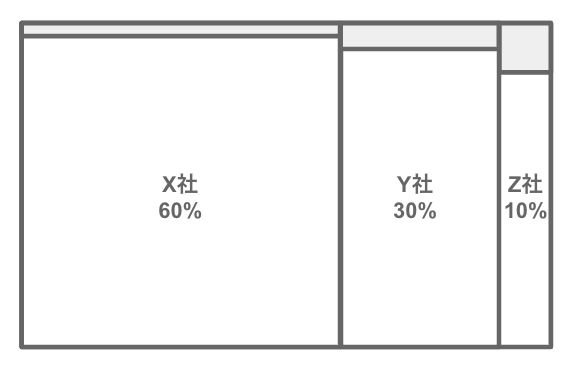
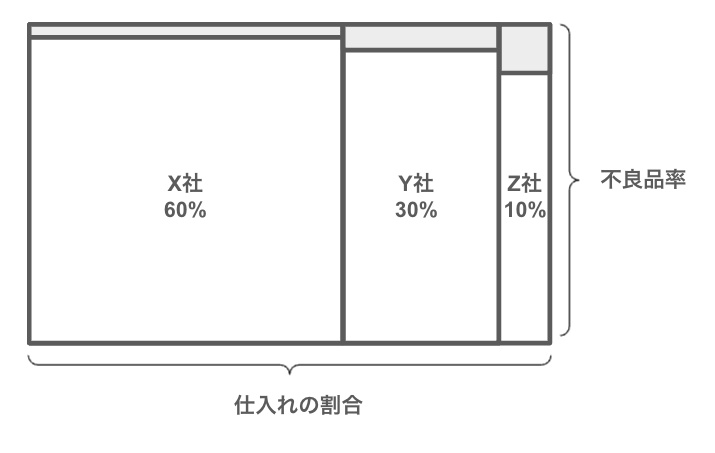
update

Changed region(s): [[0.0297, 0.03, 0.9808, 0.9591], [0.208, 0.3597, 0.3566, 0.5995]]

diff --git a/307.md b/307.md
@@ -1,8 +1,8 @@
 # 確率変数
 
-* 確率変数とは確率（確率分布）によって値の決まる変数
-* 確率変数は値の取りうる確率を`P`、確率変数の期待値を`E`、確率変数の分散を`V`という記号で表現する
-* 確率変数は離散型確率変数、連続型確率変数に分割できる
+* **確率変数**とは確率（確率分布）によって値の決まる変数
+* 確率変数は値の取りうる確率を`P`、確率変数の**期待値**を`E`、確率変数の**分散**を`V`という記号で表現する
+* 確率変数は**離散型確率変数**、**連続型確率変数**に分割できる
 
 > 変数とは何かしらの具体的な値を持ちます。確率変数とはその具体的な値と、その値の出現する確率（確率分布）を持ちます。
 
@@ -30,7 +30,7 @@ P(1) = 1/6
 
 ## 確率分布
 
-* 確率分布とは、確率変数のとりうる値とその確率の対応を表すもの
+* **確率分布**とは、確率変数のとりうる値とその確率の対応を表すもの
 * 離散型確率分布、連続型確率分布に分かれる
 * 離散型確率分布にはベルヌーイ分布、二項分布、ポアソン分布などがあり、連続型確率分布には正規分布やt分布などがある
 
@@ -38,11 +38,13 @@ P(1) = 1/6
 
 <img src="img/289.png" width="400px">
 
+> サイコロの出目のような各値についての確率が一様に等しい分布を**一様分布**と呼びます。
+
 ---
 
 ## 確率変数の期待値
 
-* 確率変数のとりうる値の平均値を期待値と呼ぶ
+* 確率変数のとりうる値の平均値を**期待値**と呼ぶ
 * 確率変数の期待値は `E` を使って記述する
 * ある確率変数 X の期待値がAの場合、以下のように記述する
 
@@ -83,8 +85,8 @@ E(2 * X + 1) = (3 * 1/6) + (5 * 1/6) + (7 * 1/6) + (9 * 1/6) + (11 * 1/6) + (13 
 
 ## 確率変数の分散
 
-* 確率変数のとりうる値にはばらつき（分散）がある
-* 確率変数の分散 `V` を使って記述する
+* 確率変数のとりうる値にはばらつき（**分散**）がある
+* 確率変数の分散は `V` を使って記述する
 * ある確率変数 X の分散がAの場合、以下のように記述する
 
 <img src="img/297.png" width="140px">
@@ -193,5 +195,116 @@ V(X) = E(X^2) - (E(X))^2 = 15.16667 - 12.25 = 2.91667
 
 以下の確率分布に従うサイコロがあります。
 
+|出目|1|2|3|4|5|6|
+|:--:|:--:|:--:|:--:|:--:|:--:|:--:|
+|確率|1/2|1/10|1/10|1/10|1/10|1/10|
+
 * 期待値 `E(X)` を求めてください。
 * 分散 `V(X)` を求めてください。
+
+<!--
+### 設問1
+* 確率変数Xの確率分布を表にまとめてください。
+
+  0   1   2
+1/4 1/2 1/4
+
+* 確率 `P(X=0)` を求めてください。
+
+P(X=0) = 1/4
+
+* 確率 `P(X<=1)` を求めてください。
+
+P(X<=1) = 3/4
+
+* 期待値 `E(X)` を求めてください。
+
+E(X) = 0 * 1/4 + 1 * 1/2 + 2 / 1/4 = 1
+
+* 分散 `V(X)` を求めてください。
+
+E(X^2) = 0^2 * 1/4 + 1^2 * 1/2 + 2^2 / 1/4 = 1/2 + 1 = 1.5
+(E(X))^2 = 1
+V(X) = E(X^2) - (E(X))^2 = 1.5 - 1 = 0.5
+
+V(X) = ((0 - 1)^2 + (1 - 1)^2 + (1 - 1)^2 + (2 - 1)^2) / 4
+     = 0.5 ※出現回数に注意
+V(X) = (0 - 1)^2 * 1/4 + (1 - 1)^2 * 1/2 + (2 - 1)^2 * 1/4
+     = 0.5
+
+* 期待値 `E(2 * X + 5)` を求めてください。
+E(X) = 1
+E(2 * X + 5) = 7
+
+* 分散 `V(2 * X + 5)` を求めてください。
+
+V(X) = 0.5
+
+V(X + C) = V(X), V(X * C) = C^2 * V(X) より
+
+V(2 * X + 5) = 4 * V(X) = 2
+
+
+### 設問2
+
+* 確率変数Xの確率分布を表にまとめてください。
+   2    3    4    5    6    7    8    9   10   11   12
+1/36 2/36 3/36 4/36 5/36 6/36 5/36 4/36 3/36 2/36 1/36
+
+* 確率 `P(X=1)` を求めてください。
+
+P(X=1) = 0
+
+* 確率 `P(X<=3)` を求めてください。
+
+P(X<=3) = 6 / 36 = 1/6
+
+* 確率 `P(5<X<=8)` を求めてください。
+
+P(5<X<=8) = (5 + 6 + 5) / 36 = 16/36 = 4/9
+
+* 期待値 `E(X)` を求めてください。
+
+E(X) = 2 * 1/36 + 3 * 2/36 + 4 * 3/36 + 5 * 4/36 + 6 * 5/36 + 7 * 6/36 + 8 * 5/36 + 9 * 4/36 + 10 * 3/36 + 11 * 2/36 + 12 * 1/36 = 7
+
+あるいは2つのサイコロなので、
+1つあたりのサイコロの期待値をE(Y) = 3.5とすると
+E(Y + Y) = E(Y) + E(Y) = 3.5 + 3.5 = 7
+
+* 分散 `V(X)` を求めてください。
+
+E(X^2) = 2^2 * 1/36 + 3^2 * 2/36 + 4^2 * 3/36 + 5^2 * 4/36 + 6^2 * 5/36 
+       + 7^2 * 6/36 + 8^2 * 5/36 + 9^2 * 4/36 + 10^2 * 3/36 + 11^2 * 2/36 + 12^2 * 1/36 = 54.83333
+E(X)^2 = 7 * 7 = 49
+V(X) = E(X^2) - E(X)^2 = 54.83333 - 49 = 5.83333
+
+* 期待値 `E(5 * X + 10)` を求めてください。
+
+E(X) = 7
+E(5 * X + 10) = 45
+
+* 分散 `V(5 * X + 10)` を求めてください。
+V(X) = 5.83333
+V(5 * X + 10) = 5^2 * V(X) = 145.8333
+
+
+### 設問3
+
+以下の確率分布に従うサイコロがあります。
+
+|出目|1|2|3|4|5|6|
+|:--:|:--:|:--:|:--:|:--:|:--:|:--:|
+|確率|1/2|1/5|1/5|1/5|1/5|1/5|
+
+* 期待値 `E(X)` を求めてください。
+
+E(X) = 1 * 1/2 + 2 * 1/10 + 3 * 1/10 + 4 * 1/10 + 5 * 1/10 + 6 * 1/10 = 2.5
+
+* 分散 `V(X)` を求めてください。
+
+E(X^2) = 1^2 * 1/2 + 2^2 * 1/10 + 3^2 * 1/10 + 4^2 * 1/10 + 5^2 * 1/10 + 6^2 * 1/10 = 9.5
+E(X)^2 = 2.5^2 = 6.25
+
+V(X) = E(X^2) - E(X)^2 = 9.5 - 6.25 = 3.25
+
+-->

diff --git a/306.md b/306.md
@@ -17,11 +17,13 @@
 
 > ③の式は、結果である事象Aを条件に原因となる事象Bの起こる確率を求めています。このとき、右辺には 原因から結果となる確率を求める P(A|B)という条件付き確率が出現します。
 
-> ベイズの定理では、P(B)を事前確率、P(B|A)を事後確率と呼びます。
+> ベイズの定理では③の P(B) を事前確率、 P(B|A) を事後確率と呼びます。
 
-### 具体例
+---
 
-* ある病気Xにかかる人の確率（罹患率）は0.001%とする
+### 具体例：ある病気の検査で陽性と判断されたとき、実際に罹患している確率
+
+* ある病気Xにかかる人の確率（罹患率）は0.1%（0.001）とする
 * この病気の検査キットは以下の確率で陽性を陰性を判別する
 
 |条件|陽性|陰性|
@@ -34,14 +36,20 @@
 * この検査キットを使って陽性と判定された場合、本当に罹患している確率は以下のとおり
 
 ```
-陽性と判定される（事象A）の確率
+事象A：陽性と判定される
+事象B：罹患している
+
+陽性と判定される（事象A）の確率 （表より）
 P(A) = 0.001 * 0.9 + (1 - 0.001) * 0.05 =  0.05085
-罹患している（事象B）の確率
+罹患している（事象B）の確率 （問題文より）
 P(B) = 0.001
-罹患している人が陽性と判定される確率
+
+罹患している人が陽性と判定される確率 （表より）
 P(A|B) = 0.90
 
-ベイズの定理より
+（ベイズの定理より）
+事象Aという条件のもとで事象Bが発生する確率
+（陽性と判断されたという条件のもと、罹患している確率）
 P(B|A) = P(B)P(A|B) / P(A) = 0.001 * 0.90 / 0.05085 = 0.017 = 1.7%
 ```
 
@@ -53,7 +61,7 @@ P(B|A) = P(B)P(A|B) / P(A) = 0.001 * 0.90 / 0.05085 = 0.017 = 1.7%
 
 * ベイズの定理では P(B) を事前確率、P(B|A) を事後確率と呼ぶ
 * 事前確率とは事象Aが起こる前の確率で、事後確率とは事象Aが起こった後の確率を意味する
-* この問題では、事前確率である罹患率は `P(B) = 0.001` であったが、そこに陽性である（`P(A)`）というデータを加味したことによって確率が更新され、事後確率は `P(B|A) = 0.017` となる
+* この問題では、事前確率である罹患率は `P(B) = 0.001` であったが、そこに陽性である（`P(A)`）というデータが与えれたことによって確率が更新され、事後確率は `P(B|A) = 0.017` となる
 
 > ベイズの定理では、新たに発生したデータによって事前確率が事後確率に更新されます。
 
@@ -67,8 +75,11 @@ P(B|A) = P(B)P(A|B) / P(A) = 0.001 * 0.90 / 0.05085 = 0.017 = 1.7%
 
 > ④の式は結果である事象Aの確率です。事象Aの条件であるB1〜Bkまでの条件付き確率の総和です。
 
+<img src="img/298.png" width="300px">
 
-### 具体例
+---
+
+### 具体例：ある部品が不良品であった場合、その仕入元を予測する確率
 
 * 電子機器Bを生産しているメーカーAでは、必要な部品CをX社、Y社、Z社3つの部品メーカーから仕入れている
 * 各社の部品Zの仕入れの割合と、不良品率は以下のとおり
@@ -77,6 +88,8 @@ P(B|A) = P(B)P(A|B) / P(A) = 0.001 * 0.90 / 0.05085 = 0.017 = 1.7%
 |:--|:--:|:--:|:--:|
 |仕入れの割合|60%|30%|10%|
 |不良品率|0.1%|0.5%|1.0%|
+
+<img src="img/289.png" width="500px">
 
 * 手元にある部品Cが不良品であることがわかったとき、その部品がZ社のものである確率を求めよ
 
@@ -99,11 +112,11 @@ P(A|Bz) = 0.010
 不良品である確率
 P(A) = ΣP(Bj)P(A|Bj) = 0.6 * 0.001 + 0.3 * 0.005 + 0.1 * 0.010 = 0.0031
 
+ベイズの定理より
 不良品がZ社のものである確率
 P(Bz|A) = P(Bz)P(A|Bz) / P(A) = (0.1 * 0.010) / 0.0031 = 0.3225806
 ```
 
-<img src="img/288.png" width="400px">
 
 ---
 

diff --git a/308.md b/308.md
@@ -80,6 +80,8 @@ V(X) = Σ(X - E[X])^2P(X) = Σ(X - μ)^2P(X)
 
 <img src="img/293.png" width="480px">
 
+> `E(X^2) - E(X)^2` によって分散を簡単に計算できるので覚えておくと便利です。
+
 ---
 
 
@@ -127,7 +129,7 @@ P(X) = ? : X = 0
 ```
 P(X) = ? : X = 0
        ? : X = 1
-       ? : X = 1
+       ? : X = 2
 ```
 
 2. 確率変数Xの期待値 E[X] を求めてください。
@@ -142,3 +144,86 @@ P(X) = ? : X = 0
 1. 確率分布関数 P(X) を求めてください。
 2. 確率変数Xの期待値 E[X] を求めてください。
 3. 確率変数Xの期待値 V[X] を求めてください。
+
+<!-- 
+
+
+### 設問1
+
+1枚のコインを投げて表の出る回数を確率変数Xとします。
+
+1. 確率分布関数 P(X) を求めてください。
+
+#### ヒント
+
+```
+P(X) = 0.5 : X = 0
+       0.5 : X = 1
+```
+
+2. 確率変数Xの期待値 E[X] を求めてください。
+
+E(X) = 0 * 0.5 + 1 * 0.5 = 0.5
+
+3. 確率変数Xの期待値 V[X] を求めてください。
+
+E(X^2) = 0^2 * 0.5 + 1^2 * 0.5 = 0.5
+E(X)^2 = 0.5^2 = 0.25
+
+V(X) = E(X^2) - E(X)^2 = 0.5 - 0.25 = 0.25
+
+---
+
+### 設問2
+
+2枚のコインを投げて表の出る回数を確率変数Xとします。
+
+1. 確率分布関数 P(X) を求めてください。
+
+#### ヒント
+
+```
+P(X) = 1/4 : X = 0
+       1/2 : X = 1
+       1/4 : X = 2
+```
+
+2. 確率変数Xの期待値 E[X] を求めてください。
+
+E(X) = 0 * 1/4 + 1 * 1/2 + 2 * 1/4 = 1
+
+
+3. 確率変数Xの期待値 V[X] を求めてください。
+
+E(X^2) = 0^2 * 1/4 + 1^2 * 1/2 + 2^2 * 1/4 = 1.5
+E(X)^2 = 1^2 = 1
+
+V(X) = E(X^2) - E(X)^2 = 1.5 - 1 = 0.5 
+
+---
+
+### 設問3
+
+2つのサイコロを投げて出目の大きい方を確率変数Xでとします。
+
+1. 確率分布関数 P(X) を求めてください。
+
+
+P(X) = 1/36  : X = 1
+       3/36  : X = 2
+       5/36  : X = 3
+       7/36  : X = 4
+       9/36  : X = 5
+       11/36 : X = 6
+
+2. 確率変数Xの期待値 E[X] を求めてください。
+
+E(X) = 1 * 1/36 + 2 * 3/36 + 3 * 5/36 + 4 * 7/36 + 5 * 9/36 + 6 * 11/36 = 4.472222
+
+3. 確率変数Xの期待値 V[X] を求めてください。
+
+E(X^2) = 1^2 * 1/36 + 2^2 * 3/36 + 3^2 * 5/36 + 4^2 * 7/36 + 5^2 * 9/36 + 6^2 * 11/36 = 21.97222
+E(X)^2 = 4.472222^2 = 20.00077
+V(X) = E(X^2) - E(X)^2 = 21.97222 - 20.00077 = 1.97145
+
+-->
